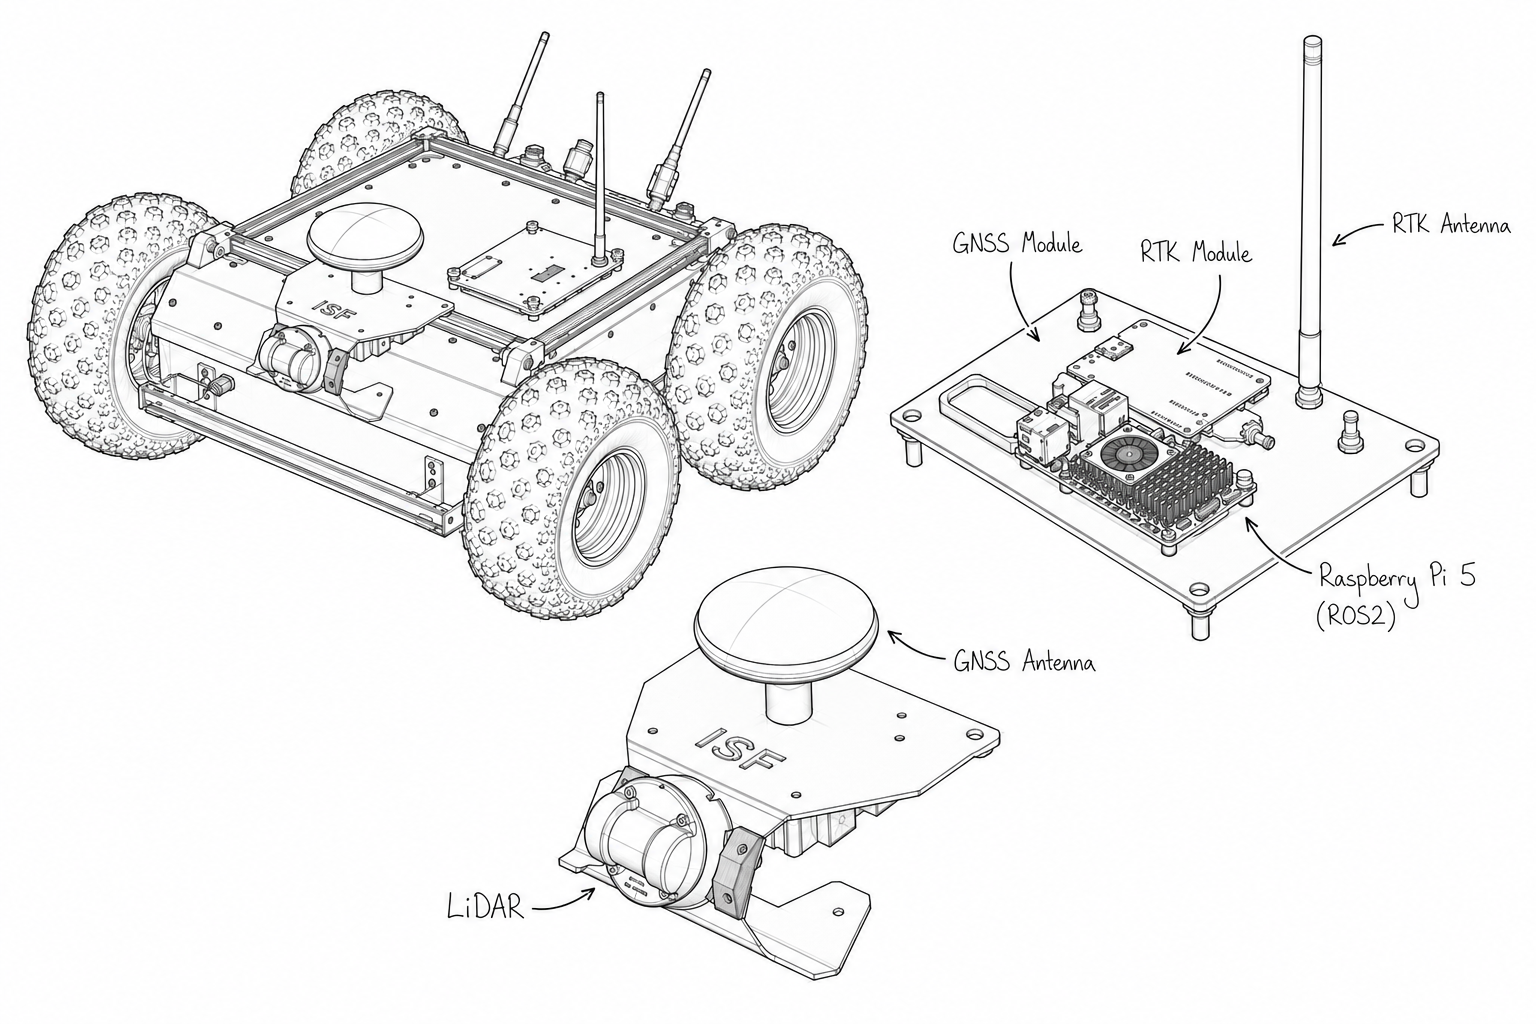
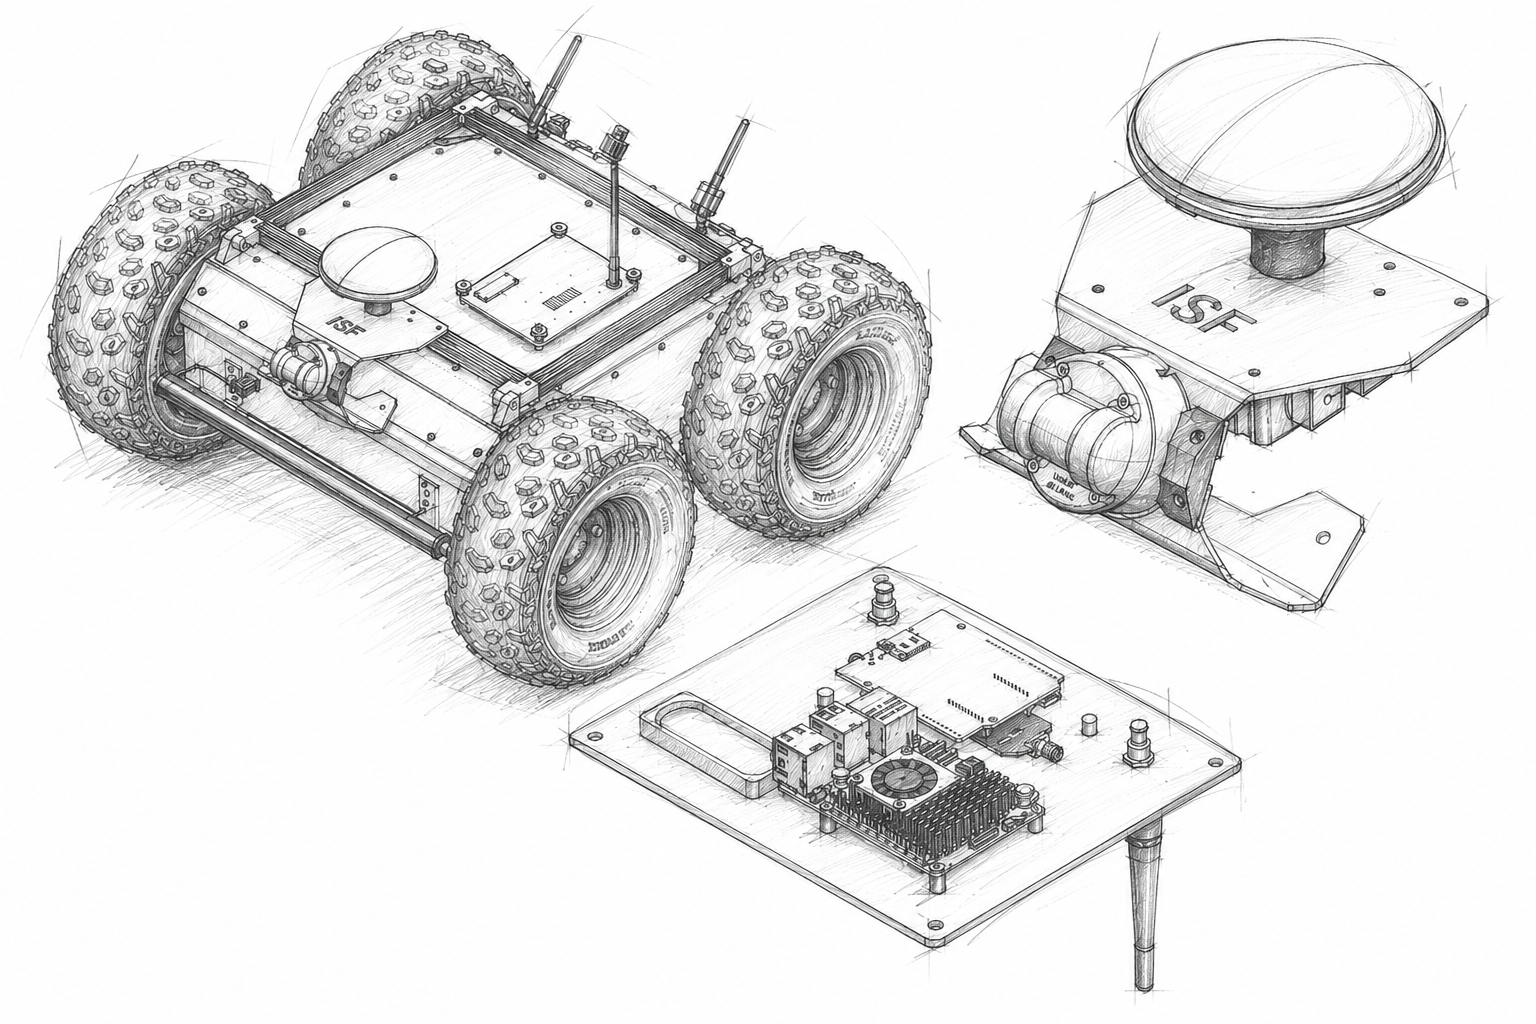
new sketches

diff --git a/anymal-x.html b/anymal-x.html
@@ -148,7 +148,7 @@
     <figure class="project-secondary-image">
 
         <img
-            src="images/anymal-sketch.svg"
+            src="images/anymal-sketch.png"
             alt="ANYmal X design sketch"
             loading="lazy"
         >